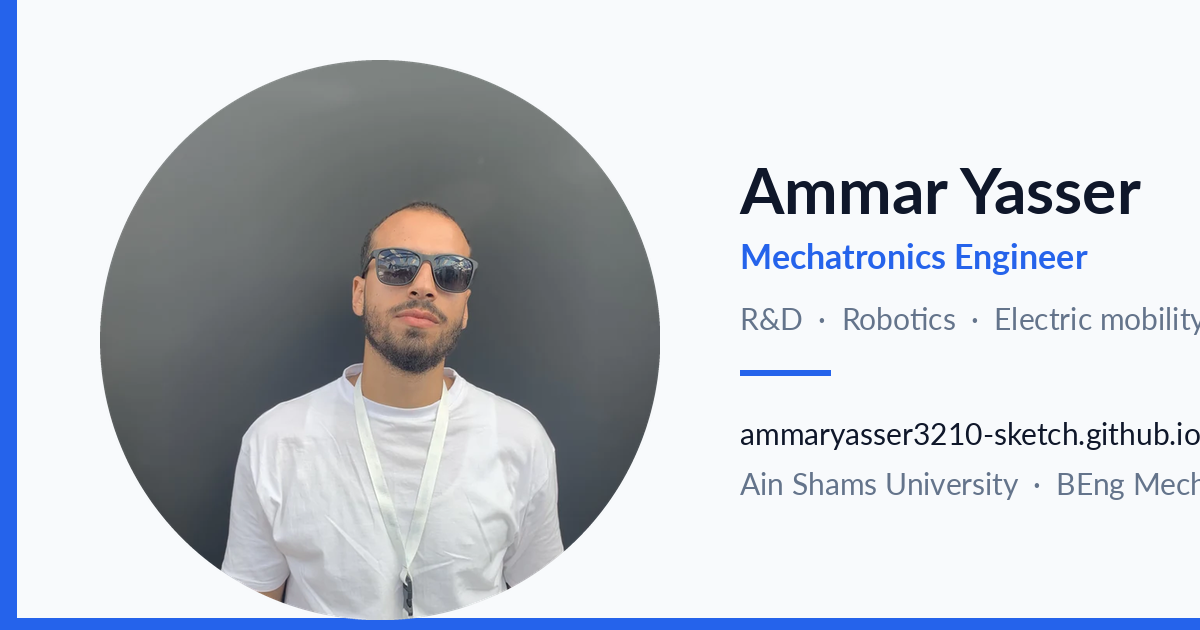
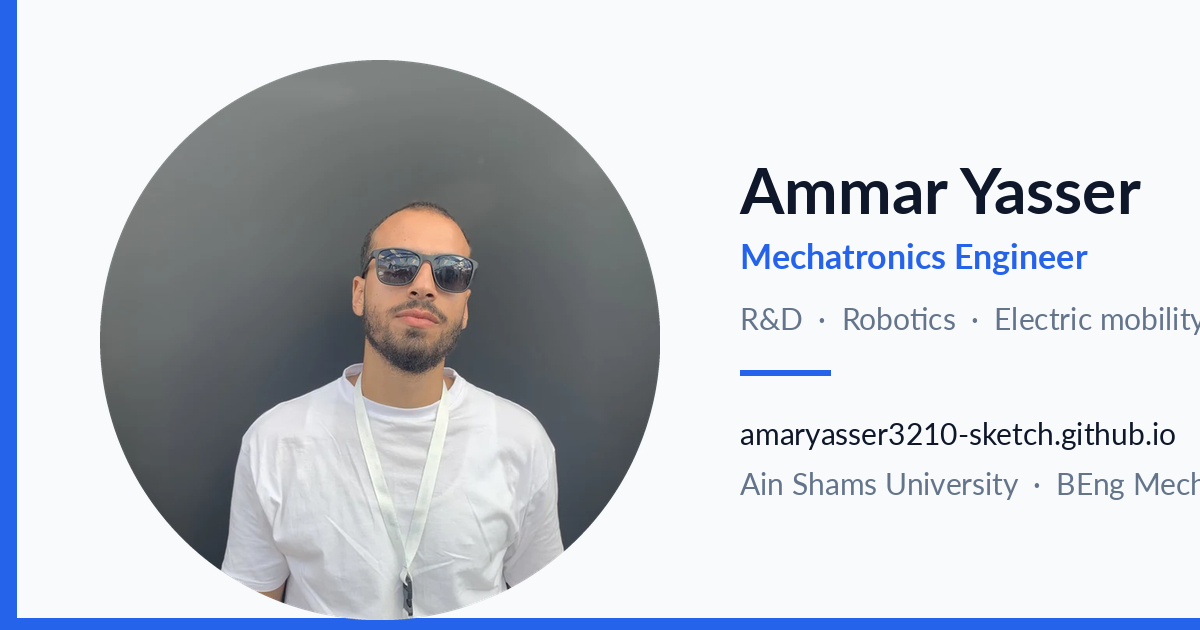
Fix GitHub username typo (amaryasser) in URLs, canonical, OG and JSON-LD; regenerate og-image

Changed region(s): [[0.6475, 0.6635, 1.0, 0.7238]]

diff --git a/index.html b/index.html
@@ -8,15 +8,15 @@
   <meta name="description" content="Portfolio of Ammar Yasser, mechatronics engineer at Ain Shams University — robotics, embedded systems, mechanical design and electric-mobility R&D projects.">
   <meta name="author" content="Ammar Yasser">
   <meta name="theme-color" content="#2563eb">
-  <link rel="canonical" href="https://ammaryasser3210-sketch.github.io/">
+  <link rel="canonical" href="https://amaryasser3210-sketch.github.io/">
 
   <meta name="robots" content="index, follow">
   <meta property="og:type" content="profile">
   <meta property="og:site_name" content="Ammar Yasser — Portfolio">
   <meta property="og:title" content="Ammar Yasser — Mechatronics Engineer | R&amp;D &amp; Electric Mobility">
   <meta property="og:description" content="Robotics, embedded systems, mechanical design and electric-mobility R&D projects.">
-  <meta property="og:url" content="https://ammaryasser3210-sketch.github.io/">
-  <meta property="og:image" content="https://ammaryasser3210-sketch.github.io/assets/og-image.png">
+  <meta property="og:url" content="https://amaryasser3210-sketch.github.io/">
+  <meta property="og:image" content="https://amaryasser3210-sketch.github.io/assets/og-image.png">
   <meta property="og:image:width" content="1200">
   <meta property="og:image:height" content="630">
   <meta property="og:image:alt" content="Ammar Yasser — Mechatronics Engineer">
@@ -25,7 +25,7 @@
   <meta name="twitter:card" content="summary_large_image">
   <meta name="twitter:title" content="Ammar Yasser — Mechatronics Engineer">
   <meta name="twitter:description" content="Robotics, embedded systems, mechanical design and electric-mobility R&D projects.">
-  <meta name="twitter:image" content="https://ammaryasser3210-sketch.github.io/assets/og-image.png">
+  <meta name="twitter:image" content="https://amaryasser3210-sketch.github.io/assets/og-image.png">
 
   <link rel="icon" href="assets/favicon.svg" type="image/svg+xml">
   <link rel="apple-touch-icon" href="assets/avatar.webp">
@@ -43,8 +43,8 @@
     "name": "Ammar Yasser Mohamed Abd-El Aal",
     "alternateName": "Ammar Yasser",
     "jobTitle": "Mechatronics Engineer",
-    "url": "https://ammaryasser3210-sketch.github.io/",
-    "image": "https://ammaryasser3210-sketch.github.io/assets/avatar.webp",
+    "url": "https://amaryasser3210-sketch.github.io/",
+    "image": "https://amaryasser3210-sketch.github.io/assets/avatar.webp",
     "email": "mailto:amaryasser3210@gmail.com",
     "telephone": "+201061769179",
     "address": {

diff --git a/js/site.config.js b/js/site.config.js
@@ -8,7 +8,7 @@ window.SITE = {
     fullName: "Ammar Yasser Mohamed Abd-El Aal",
     role: "Mechatronics Engineer",
     tagline: "R&D · Robotics · Electric mobility",
-    siteUrl: "https://ammaryasser3210-sketch.github.io",
+    siteUrl: "https://amaryasser3210-sketch.github.io",
     ogImage: "assets/og-image.png"
   },
 
